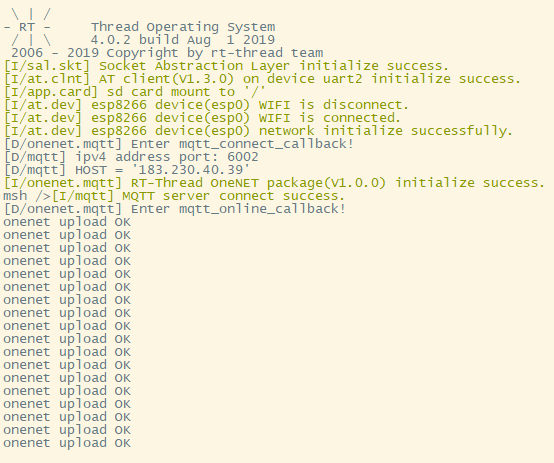
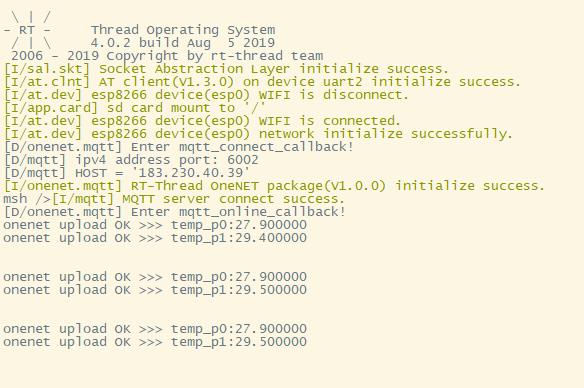
[Fourth week mission]Done!

Changed region(s): [[0.0, 0.0309, 0.9819, 0.9897]]

diff --git a/DIY1/Second_week_mission/SEND1(stm32f407-atk-explorer)(messagequeue)/applications/main.c b/DIY1/Second_week_mission/SEND1(stm32f407-atk-explorer)(messagequeue)/applications/main.c
@@ -73,7 +73,7 @@ static void read_temp_entry(void *parameter)
             msg.int_value = sensor_data.data.temp;
             rt_mq_send(tmp_msg_mq, &msg, sizeof msg);
         }
-        rt_thread_mdelay(100);
+        rt_thread_mdelay(500);
     }
 }
 
@@ -95,7 +95,7 @@ static void nrf24l01_send_entry(void *parameter)
 
     while (1)
     {
-        rt_thread_mdelay(100);
+        rt_thread_mdelay(500);
         
         if (rt_mq_recv(tmp_msg_mq, &msg, sizeof msg, RT_WAITING_FOREVER) == RT_EOK)
         {

diff --git a/DIY1/Second_week_mission/SEND2(stm32f407-atk-explorer)(messagequeue)/applications/main.c b/DIY1/Second_week_mission/SEND2(stm32f407-atk-explorer)(messagequeue)/applications/main.c
@@ -73,7 +73,7 @@ static void read_temp_entry(void *parameter)
             msg.int_value = sensor_data.data.temp;
             rt_mq_send(tmp_msg_mq, &msg, sizeof msg);
         }
-        rt_thread_mdelay(100);
+        rt_thread_mdelay(500);
     }
 }
 
@@ -95,7 +95,7 @@ static void nrf24l01_send_entry(void *parameter)
 
     while (1)
     {
-        rt_thread_mdelay(100);
+        rt_thread_mdelay(500);
         
         if (rt_mq_recv(tmp_msg_mq, &msg, sizeof msg, RT_WAITING_FOREVER) == RT_EOK)
         {

diff --git a/DIY1/Second_week_mission/SEND3(stm32f103-dofly-M3S)(messagequeue)/applications/main.c b/DIY1/Second_week_mission/SEND3(stm32f103-dofly-M3S)(messagequeue)/applications/main.c
@@ -72,7 +72,7 @@ static void read_temp_entry(void *parameter)
             msg.int_value = sensor_data.data.temp;
             rt_mq_send(tmp_msg_mq, &msg, sizeof msg);
         }
-        rt_thread_mdelay(100);
+        rt_thread_mdelay(500);
     }
 }
 
@@ -94,7 +94,7 @@ static void nrf24l01_send_entry(void *parameter)
 
     while (1)
     {
-        rt_thread_mdelay(100);
+        rt_thread_mdelay(500);
         
         if (rt_mq_recv(tmp_msg_mq, &msg, sizeof msg, RT_WAITING_FOREVER) == RT_EOK)
         {

diff --git a/DIY1/Second_week_mission/SEND1(stm32f407-atk-explorer)(mailbox+mempool)/applications/main.c b/DIY1/Second_week_mission/SEND1(stm32f407-atk-explorer)(mailbox+mempool)/applications/main.c
@@ -79,7 +79,7 @@ static void read_temp_entry(void *parameter)
             rt_mb_send(tmp_msg_mb, (rt_ubase_t)msg);
             msg = NULL;
         }
-        rt_thread_mdelay(100);
+        rt_thread_mdelay(500);
     }
 }
 
@@ -101,7 +101,7 @@ static void nrf24l01_send_entry(void *parameter)
 
     while (1)
     {
-        rt_thread_mdelay(100);
+        rt_thread_mdelay(500);
         
         if (rt_mb_recv(tmp_msg_mb, (rt_ubase_t*)&msg, RT_WAITING_FOREVER) == RT_EOK)
         {

diff --git a/DIY1/Second_week_mission/RECEIVE(stm32l475-atk-pandora)/applications/main.c b/DIY1/Second_week_mission/RECEIVE(stm32l475-atk-pandora)/applications/main.c
@@ -42,7 +42,7 @@ static void nrf24l01_receive_entry(void *parameter)
 
     while (1)
     {
-        rt_thread_mdelay(90);
+        rt_thread_mdelay(500);
         
         if (!rx_pipe_num_choose())
         {

diff --git a/DIY1/Fourth_week_mission/README.md b/DIY1/Fourth_week_mission/README.md
@@ -8,11 +8,15 @@
 
 ![board](figures/zxy.png)
 
-## 初版测试结果
+## 结果
 
-- 在网页上查看 OneNet 云端数据，能正常收到了： 
+- 在网页上查看 OneNet 云端数据，能正常收到来自每个发送节点数据流了： 
 
 ![board](figures/onenetdata.png)
+
+- OneNet 应用，可实现远程监控：
+
+![board](figures/onenetapp.png)
 
 - 本地 FinSH 信息输出：
 
